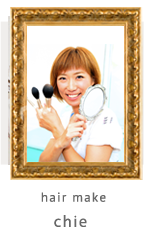
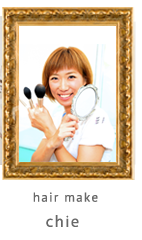
feat: TOPページ
部屋の絵＋ロゴ看板、チーム紹介、2人の入口、Instagram埋め込み（2アカウント）、WORKS・CONTACTの入口。

diff --git a/index.html b/index.html
@@ -33,6 +33,110 @@
 </header>
 
 <main>
+
+  <!-- 部屋の絵（飾り。クリック領域なし） -->
+  <section class="hero" aria-label="Team ajico">
+    <picture>
+      <source media="(min-width: 768px)" srcset="assets/img/hero/room.jpg">
+      <img class="hero__img" src="assets/img/hero/room-sp.jpg" width="1000" height="721" alt="Team ajicoの部屋。ミントグリーンの壁にガーランドと額、ピンクの椅子、フラミンゴ">
+    </picture>
+    <div class="hero__sign">
+      <img src="assets/img/logo/logo.png" width="1200" height="895" alt="Team ajico">
+      <span class="hero__tag">HAIR MAKE &amp; STYLIST / OKINAWA</span>
+    </div>
+  </section>
+
+  <!-- Team ajico のこと -->
+  <section class="band band--cream">
+    <div class="sheet">
+      <img class="parts parts--tr" src="assets/img/parts/book.png" width="152" height="113" alt="">
+      <h1 class="h-serif">Team ajico<small>チーム アジコ のこと</small></h1>
+      <div class="lead">
+        <p>2011年、スタイリスト asami とヘアーメイク chie の二人でタッグを組み、Team ajico【チームアジコ】を立ち上げる。</p>
+        <p>沖縄県内外の番組・CM・PV・スチール撮影等を中心に活動中。</p>
+        <p>お仕事のご依頼も承っておりますので、お気軽にお問合せください。</p>
+      </div>
+    </div>
+  </section>
+
+  <!-- 2人の入口 -->
+  <section class="band band--white">
+    <div class="sheet">
+      <h2 class="h-serif">PROFILE<small>メンバー</small></h2>
+      <div class="members">
+        <a class="member" href="profile/#chie">
+          <img src="assets/img/parts/frame-chie.png" width="142" height="240" alt="">
+          <span class="member__role">HAIR MAKE</span>
+          <span class="member__name">与那覇 千恵<small>yonaha chie</small></span>
+        </a>
+        <a class="member" href="profile/#asami">
+          <img src="assets/img/parts/frame-asami.png" width="140" height="235" alt="">
+          <span class="member__role">STYLIST</span>
+          <span class="member__name">新谷 麻実<small>shinya asami</small></span>
+        </a>
+      </div>
+      <div class="btn-row">
+        <a class="btn btn--outline" href="profile/">プロフィールを見る</a>
+      </div>
+    </div>
+  </section>
+
+  <!-- Instagram -->
+  <section class="band band--mint">
+    <div class="sheet">
+      <h2 class="h-serif">Instagram<small>最新の投稿</small></h2>
+      <div class="insta">
+        <figure class="insta__item">
+          <span class="insta__name">hair make chie</span>
+          <div class="insta__frame">
+            <iframe src="https://www.instagram.com/ajicochie/embed/" title="Chie の Instagram" loading="lazy"></iframe>
+          </div>
+          <a class="btn btn--outline" href="https://www.instagram.com/ajicochie/" target="_blank" rel="noopener">@ajicochie を見る</a>
+        </figure>
+        <figure class="insta__item">
+          <span class="insta__name">stylist asami</span>
+          <div class="insta__frame">
+            <iframe src="https://www.instagram.com/asami.teamajicostylist/embed/" title="Asami の Instagram" loading="lazy"></iframe>
+          </div>
+          <a class="btn btn--outline" href="https://www.instagram.com/asami.teamajicostylist/" target="_blank" rel="noopener">@asami.teamajicostylist を見る</a>
+        </figure>
+      </div>
+    </div>
+  </section>
+
+  <!-- WORKS の入口 -->
+  <section class="band band--cream">
+    <div class="sheet">
+      <img class="parts parts--bl" src="assets/img/parts/badge-works.png" width="136" height="153" alt="">
+      <h2 class="h-serif">WORKS<small>作品</small></h2>
+      <div class="works-peek">
+        <img src="assets/img/works/thumb/01.jpg" width="600" height="271" alt="作品写真 2017-01" loading="lazy">
+        <img src="assets/img/works/thumb/02.jpg" width="600" height="273" alt="作品写真 2017-02" loading="lazy">
+        <img src="assets/img/works/thumb/03.jpg" width="600" height="272" alt="作品写真 2017-03" loading="lazy">
+        <img src="assets/img/works/thumb/04.jpg" width="600" height="274" alt="作品写真 2017-04" loading="lazy">
+        <img src="assets/img/works/thumb/tumblr_or2d1bTmoK1vg0cfro3_1280.jpg" width="600" height="424" alt="作品写真 2017-06" loading="lazy">
+        <img src="assets/img/works/thumb/tumblr_or2d1bTmoK1vg0cfro6_1280.jpg" width="600" height="424" alt="作品写真 2017-10" loading="lazy">
+      </div>
+      <div class="btn-row">
+        <a class="btn" href="works/">WORKS を見る</a>
+      </div>
+    </div>
+  </section>
+
+  <!-- CONTACT の入口 -->
+  <section class="band band--white">
+    <div class="sheet">
+      <img class="parts parts--br" src="assets/img/parts/phone.png" width="140" height="99" alt="">
+      <h2 class="h-serif">CONTACT<small>お仕事のご依頼・お問い合わせ</small></h2>
+      <div class="lead">
+        <p>撮影・番組・CM・PV・スチール・ブライダルなど、お気軽にご相談ください。</p>
+      </div>
+      <div class="btn-row">
+        <a class="btn btn--coral" href="contact/">CONTACT</a>
+      </div>
+    </div>
+  </section>
+
 </main>
 
 <footer class="site-footer">

diff --git a/assets/css/style.css b/assets/css/style.css
@@ -205,3 +205,105 @@ button { font: inherit; }
   .h-serif, .h-stamp { color: #000 !important; }
   a { color: #000; text-decoration: none; }
 }
+
+/* ==========================================================
+   TOP
+   ========================================================== */
+.hero {
+  position: relative;
+  background: var(--mint);
+  overflow: hidden;
+}
+.hero__img { width: 100%; height: auto; display: block; }
+.hero__sign {
+  position: absolute;
+  left: 50%;
+  top: 9%;
+  transform: translateX(-50%);
+  width: 46%;
+  max-width: 300px;
+  text-align: center;
+  pointer-events: none;
+}
+.hero__sign img {
+  width: 100%;
+  height: auto;
+  filter: drop-shadow(0 0 6px rgba(255,255,255,.95)) drop-shadow(0 3px 2px rgba(0,0,0,.15));
+}
+.hero__tag {
+  display: inline-block;
+  margin-top: 6px;
+  padding: 3px 12px;
+  background: rgba(255,255,255,.9);
+  border-radius: 999px;
+  font-family: var(--serif);
+  font-size: min(0.7rem, 2.9vw);
+  letter-spacing: 0.22em;
+  color: var(--mint-deep);
+  white-space: nowrap;
+}
+
+/* 2人の入口 */
+.members {
+  display: grid;
+  grid-template-columns: 1fr 1fr;
+  gap: 16px;
+  max-width: 560px;
+  margin: 0 auto;
+}
+.member {
+  display: block;
+  text-align: center;
+  text-decoration: none;
+  color: var(--ink);
+}
+.member img { width: 72%; max-width: 150px; height: auto; margin: 0 auto 8px; transition: transform .2s; }
+.member:hover img { transform: translateY(-4px) rotate(-1deg); }
+.member__role { display: block; font-family: var(--serif); font-size: 0.8rem; letter-spacing: 0.18em; color: var(--coral-dark); }
+.member__name { display: block; font-weight: 700; font-size: 1.05rem; letter-spacing: 0.08em; }
+.member__name small { display: block; font-weight: 400; font-size: 0.8rem; color: var(--ink-soft); letter-spacing: 0.1em; }
+
+/* Instagram 埋め込み */
+.insta {
+  display: grid;
+  gap: 32px;
+  max-width: 600px;
+  margin: 0 auto;
+}
+.insta__item { text-align: center; }
+.insta__frame {
+  position: relative;
+  width: 100%;
+  max-width: 600px;
+  height: 560px;             /* JS が幅に合わせて縮める */
+  margin: 0 auto 16px;
+  overflow: hidden;
+  background: var(--white);
+  border-radius: 12px;
+  box-shadow: 0 6px 20px rgba(0,0,0,.15);
+}
+.insta__frame iframe {
+  position: absolute; top: 0; left: 0;
+  width: 600px; height: 560px; border: 0;
+  transform-origin: top left;
+}
+.insta__name { display: block; margin-bottom: 10px; font-family: var(--serif); letter-spacing: 0.1em; color: var(--white); }
+
+/* WORKS の入口 */
+.works-peek {
+  display: grid;
+  grid-template-columns: repeat(3, 1fr);
+  gap: 8px;
+  max-width: 900px;
+  margin: 0 auto;
+}
+.works-peek img { width: 100%; aspect-ratio: 4 / 3; object-fit: cover; border-radius: 6px; background: var(--cream-dark); }
+
+@media (min-width: 768px) {
+  .hero__sign { top: 7%; }
+  .hero__tag { font-size: 0.85rem; }
+  .members { gap: 40px; max-width: 640px; }
+  .member img { max-width: 170px; }
+  .insta { grid-template-columns: 1fr 1fr; max-width: 1000px; gap: 40px; }
+  .works-peek { gap: 12px; }
+}

diff --git a/assets/js/main.js b/assets/js/main.js
@@ -20,7 +20,7 @@
       if (!iframe) continue;
       var scale = Math.min(1, w / 600);
       iframe.style.transform = 'scale(' + scale + ')';
-      f.style.height = Math.round(700 * scale) + 'px';
+      f.style.height = Math.round(560 * scale) + 'px';
     }
   }
   fitInstagram();
